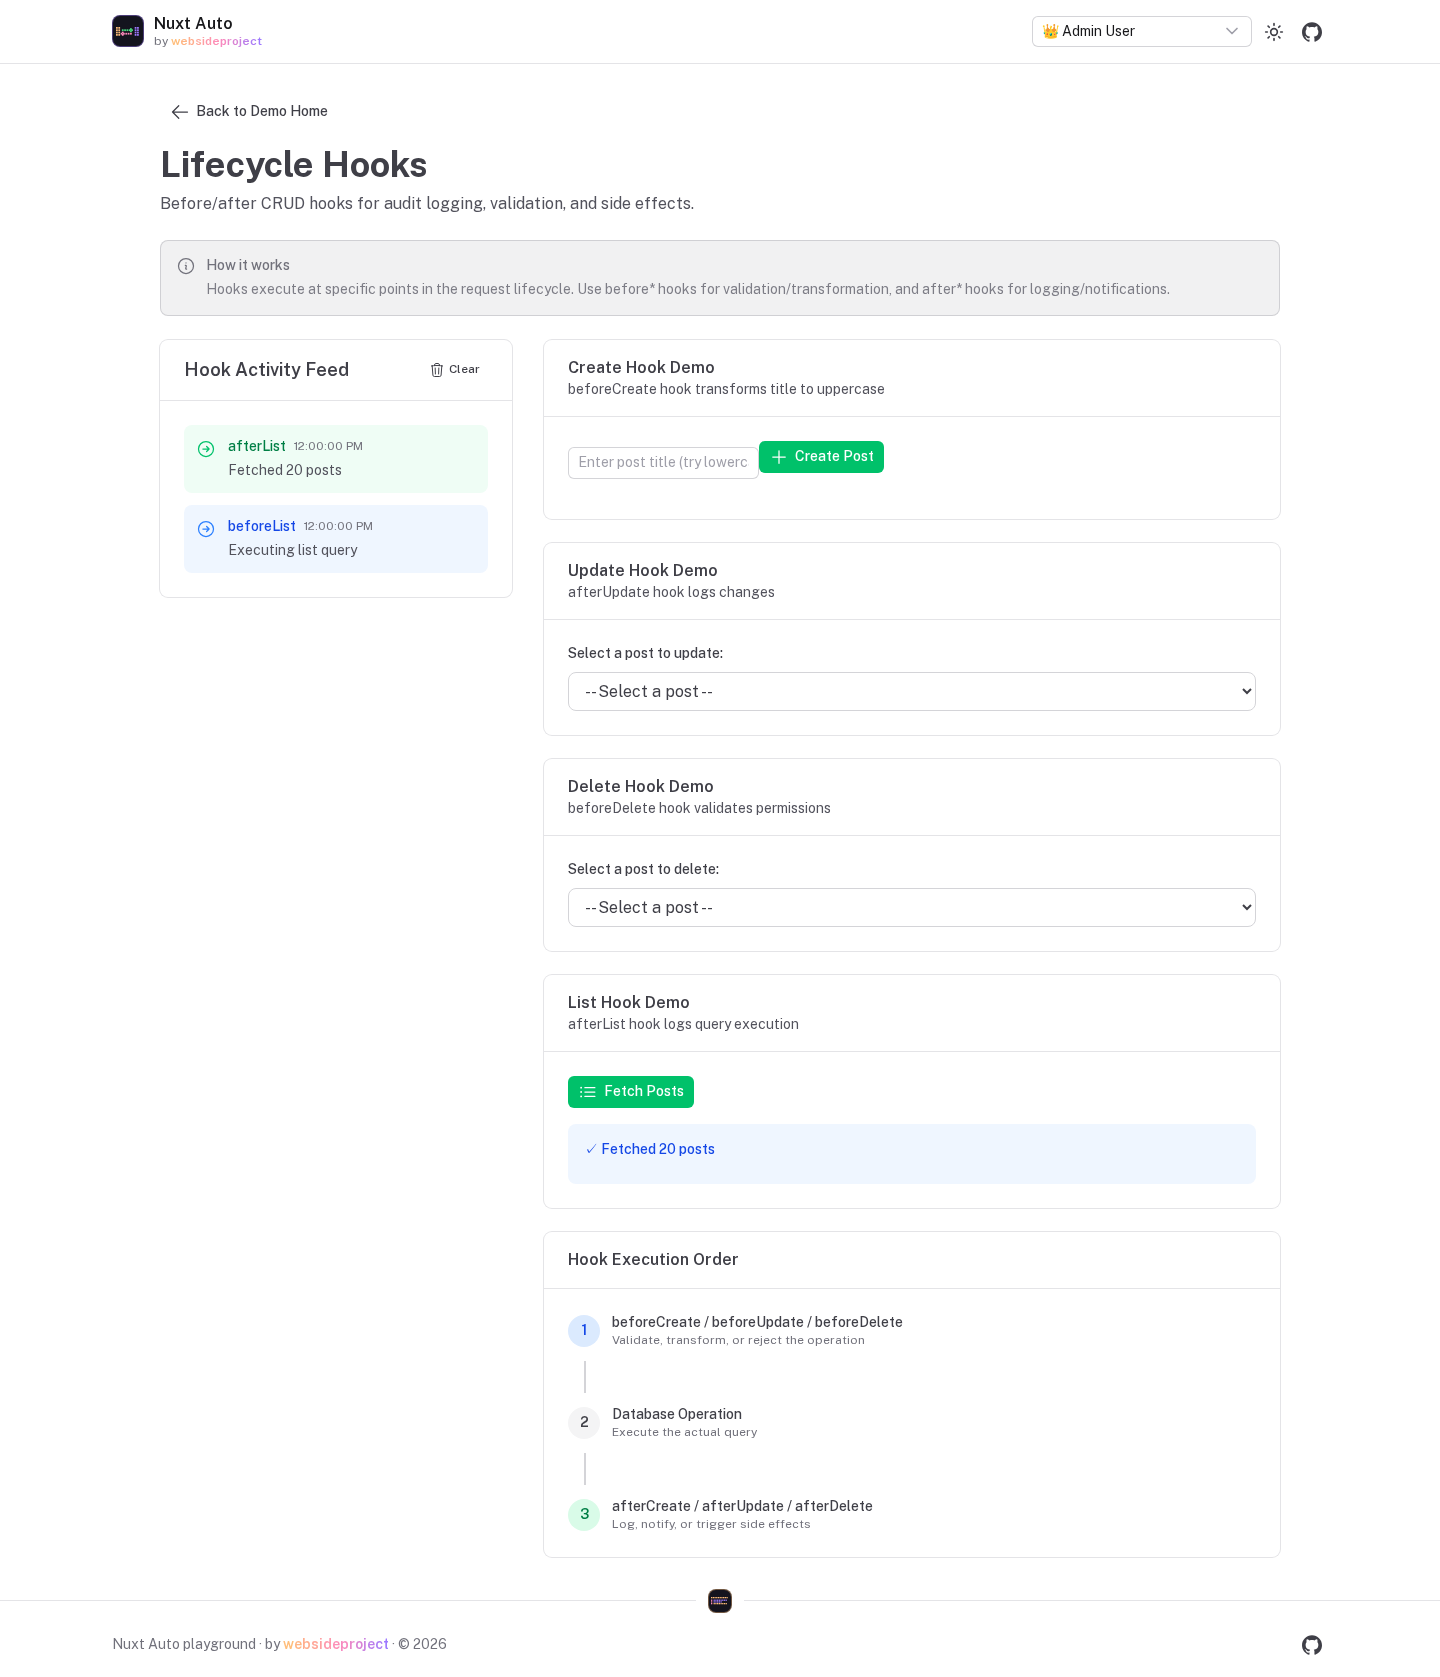
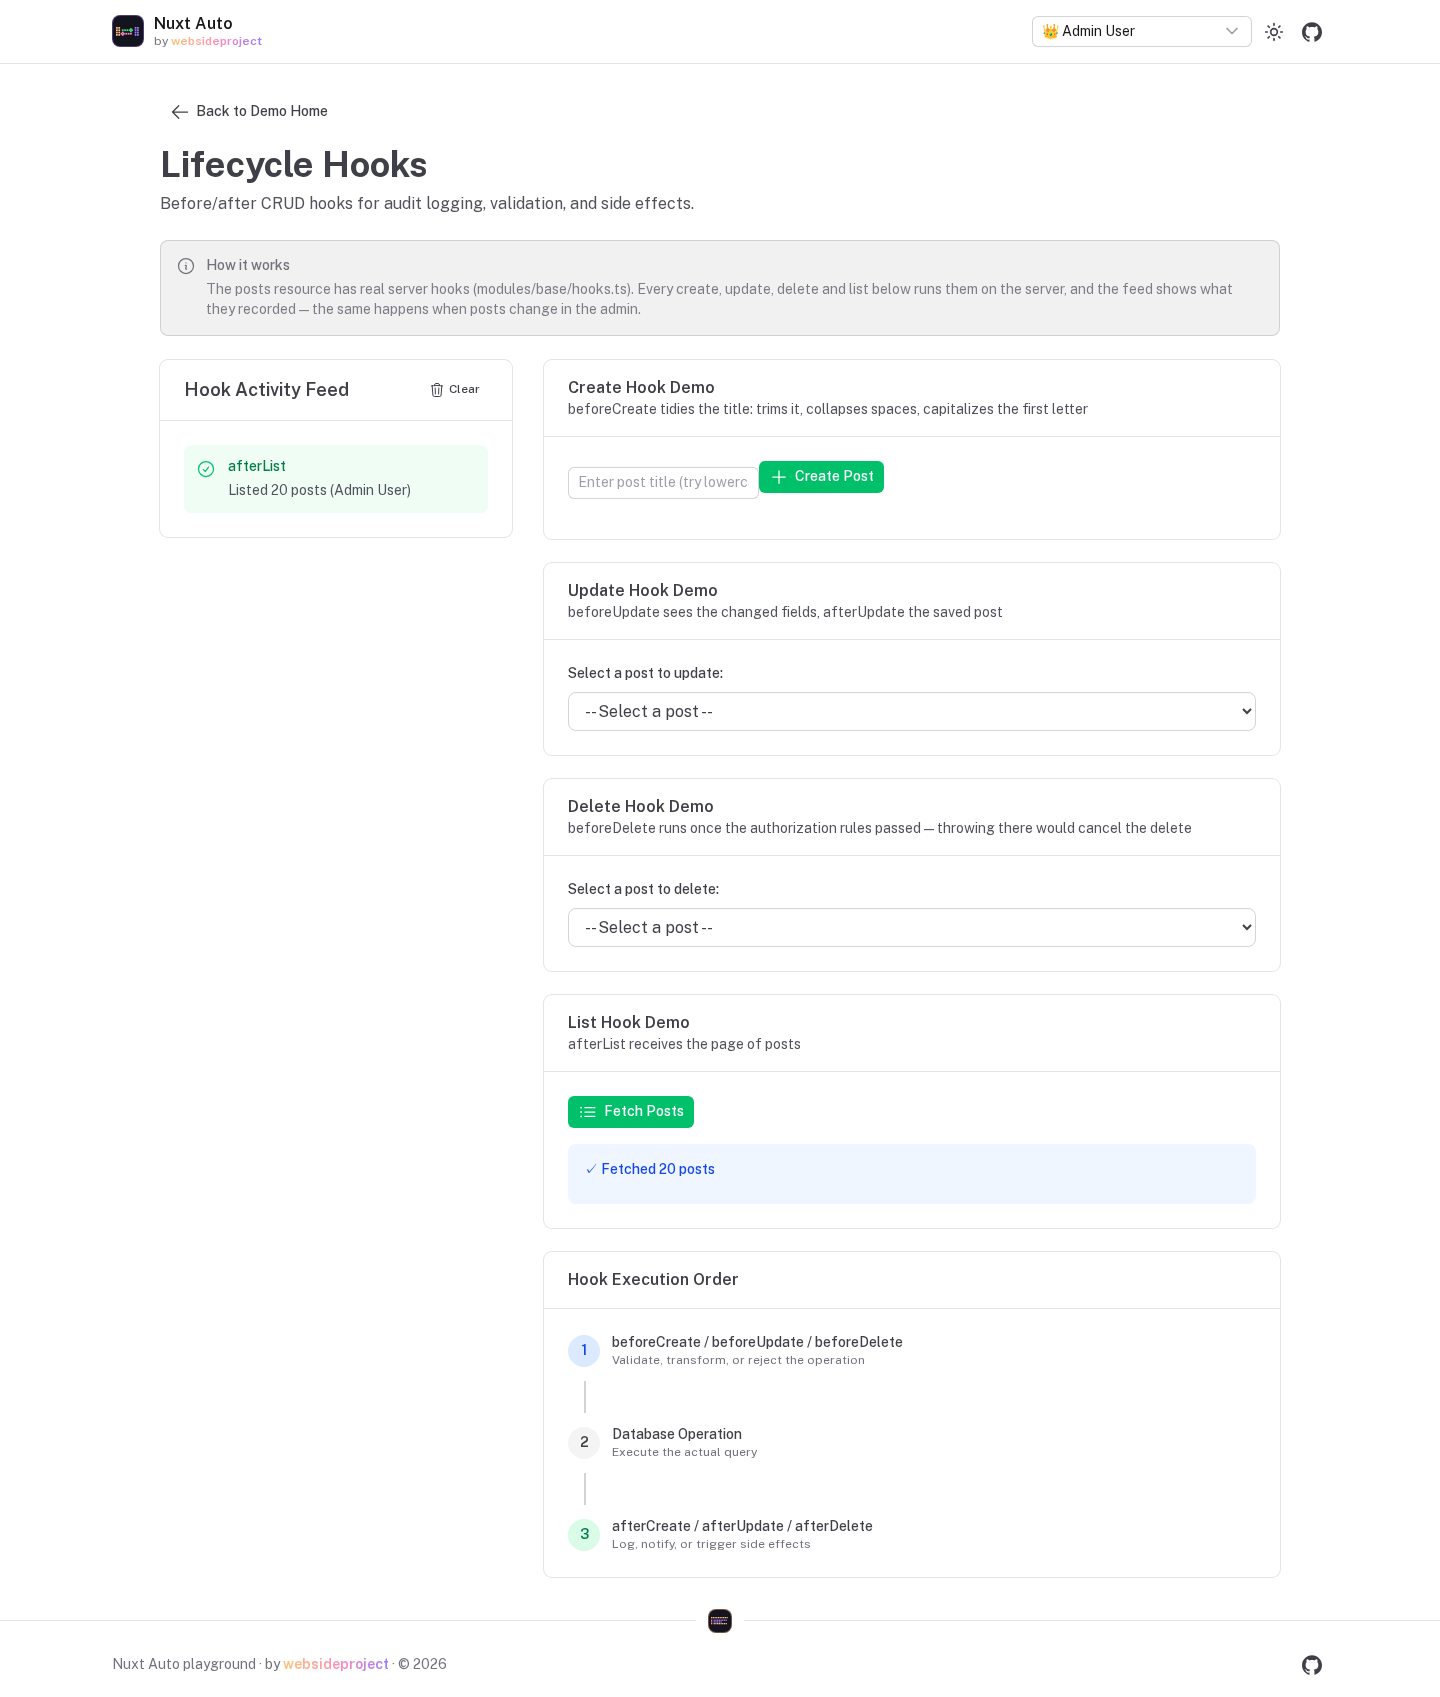
test(playground): the hooks feed is scoped to the browser, so its screenshot is stable

diff --git a/apps/playground/modules/base/hooks.ts b/apps/playground/modules/base/hooks.ts
@@ -4,7 +4,8 @@ import type { ResourceHooks } from '../../../packages/nuxt-auto-api/src/runtime/
 
 /**
  * Lifecycle hooks of `posts`, shown live on /demo/hooks. Each call is written to an in-memory log of the server
- * process (`GET /api/demo/hook-log` reads it) — enough for a demo; a real app would log or send events.
+ * process (`GET /api/demo/hook-log` reads it) — enough for a demo; a real app would log or send events. Entries carry
+ * the browser's `hook-feed` cookie, so each browser sees the calls its own requests caused.
  */
 export interface HookLogEntry {
   hook: string
@@ -12,22 +13,34 @@ export interface HookLogEntry {
   type: 'before' | 'after' | 'error'
   timestamp: string
   user: string
+  feed?: string
 }
 
 declare global {
   var __playgroundHookLog: HookLogEntry[] | undefined
 }
 
-function log(hook: string, message: string, context: { user?: { name?: string, id?: unknown } | null }) {
+interface LogContext {
+  user?: { name?: string, id?: unknown } | null
+  event?: { node?: { req?: { headers?: Record<string, string | string[] | undefined> } } }
+}
+
+function feedOf(context: LogContext): string | undefined {
+  const cookie = context.event?.node?.req?.headers?.cookie
+  return /(?:^|;\s*)hook-feed=([^;]+)/.exec(Array.isArray(cookie) ? cookie.join('; ') : cookie ?? '')?.[1]
+}
+
+function log(hook: string, message: string, context: LogContext) {
   const entries = (globalThis.__playgroundHookLog ??= [])
   entries.unshift({
+    feed: feedOf(context),
     hook,
     message,
     type: hook.startsWith('before') ? 'before' : 'after',
     timestamp: new Date().toISOString(),
     user: context.user?.name ?? (context.user?.id != null ? `user ${context.user.id}` : 'anonymous')
   })
-  entries.length = Math.min(entries.length, 50)
+  entries.length = Math.min(entries.length, 200)
 }
 
 export const postsHooks: ResourceHooks = {

diff --git a/apps/playground/server/api/demo/hook-log.ts b/apps/playground/server/api/demo/hook-log.ts
@@ -1,10 +1,10 @@
 /**
- * The hook calls `modules/base/hooks.ts` recorded, newest first (`DELETE` clears them) — the activity feed of
- * /demo/hooks.
+ * The hook calls `modules/base/hooks.ts` recorded for this browser (its `hook-feed` cookie), newest first — the
+ * activity feed of /demo/hooks.
  */
-const store = globalThis as { __playgroundHookLog?: unknown[] }
+const store = globalThis as { __playgroundHookLog?: Array<{ feed?: string }> }
 
 export default defineEventHandler((event) => {
-  if (event.method === 'DELETE') store.__playgroundHookLog = []
-  return { data: store.__playgroundHookLog ?? [] }
+  const feed = getCookie(event, 'hook-feed')
+  return { data: feed ? (store.__playgroundHookLog ?? []).filter(entry => entry.feed === feed).slice(0, 50) : [] }
 })

diff --git a/apps/playground/app/pages/demo/hooks.vue b/apps/playground/app/pages/demo/hooks.vue
@@ -324,8 +324,16 @@ function refused(hook: string, err: { message?: string }) {
   refusals.value.unshift({ hook, message: err.message || 'Request refused', type: 'error', timestamp: new Date() })
 }
 
-const clearActivity = async () => {
-  await $fetch('/api/demo/hook-log', { method: 'DELETE' })
+// The feed shows the hook calls of this browser's requests (the server tags them with this cookie). Clearing starts
+// a new feed.
+const feedId = useCookie<string | null>('hook-feed', { sameSite: 'lax' })
+const newFeed = () => {
+  feedId.value = Math.random().toString(36).slice(2)
+}
+if (import.meta.client && !feedId.value) newFeed()
+
+const clearActivity = () => {
+  newFeed()
   refusals.value = []
   serverLog.value = []
 }

diff --git a/apps/playground/test/visual.spec.ts b/apps/playground/test/visual.spec.ts
@@ -202,7 +202,8 @@ const API_SHOTS: Shot[] = [
   {
     name: 'api-hooks', path: '/demo/hooks', role: 'admin', says: 'Hook Activity Feed',
     act: async (page) => {
-      // The feed is the server's hook log: start it empty, and hide its times (the server's clock is not pinned)
+      // The feed is this browser's slice of the server's hook log: start a new one, and hide its times (the server's
+      // clock is not pinned)
       await page.getByRole('button', { name: 'Clear' }).click()
       await page.getByRole('button', { name: 'Fetch Posts' }).click()
       await expect(card(page, 'Hook Activity Feed')).toContainText('afterList')
